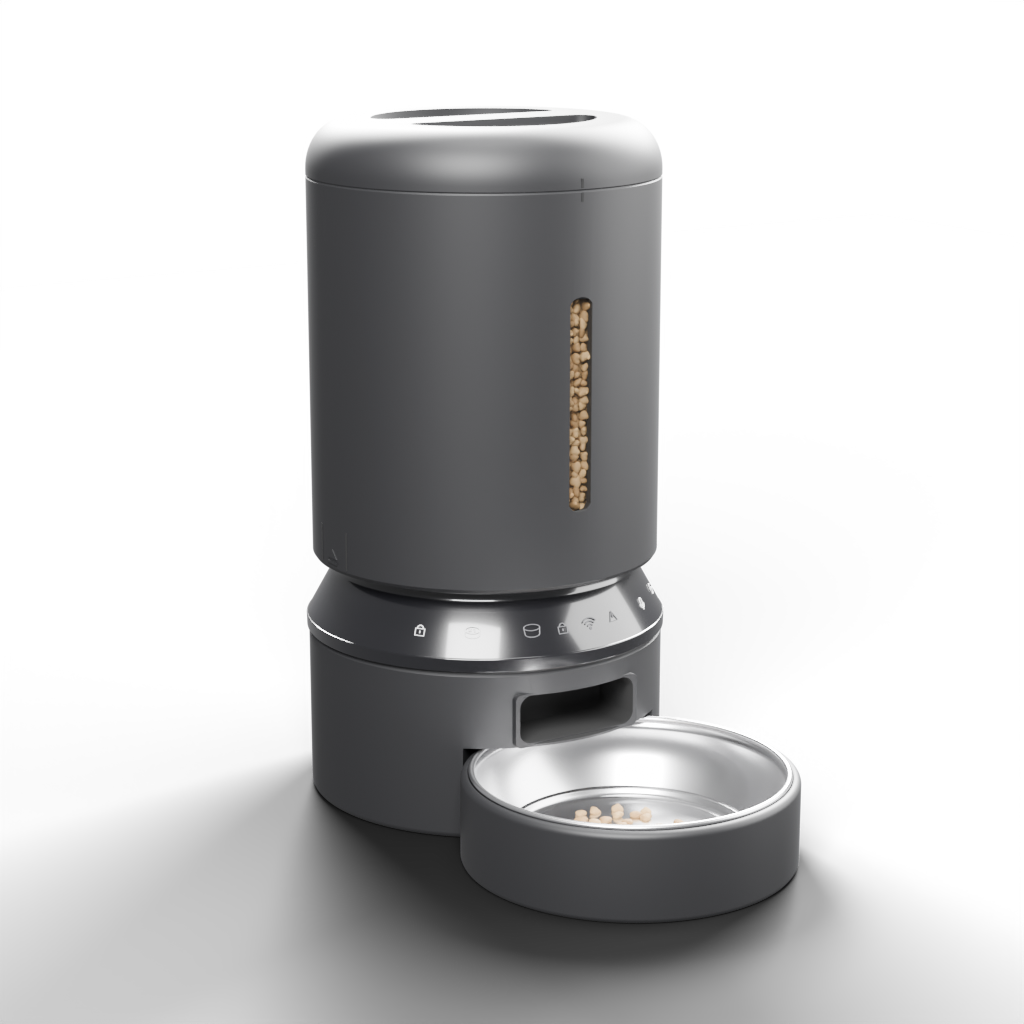
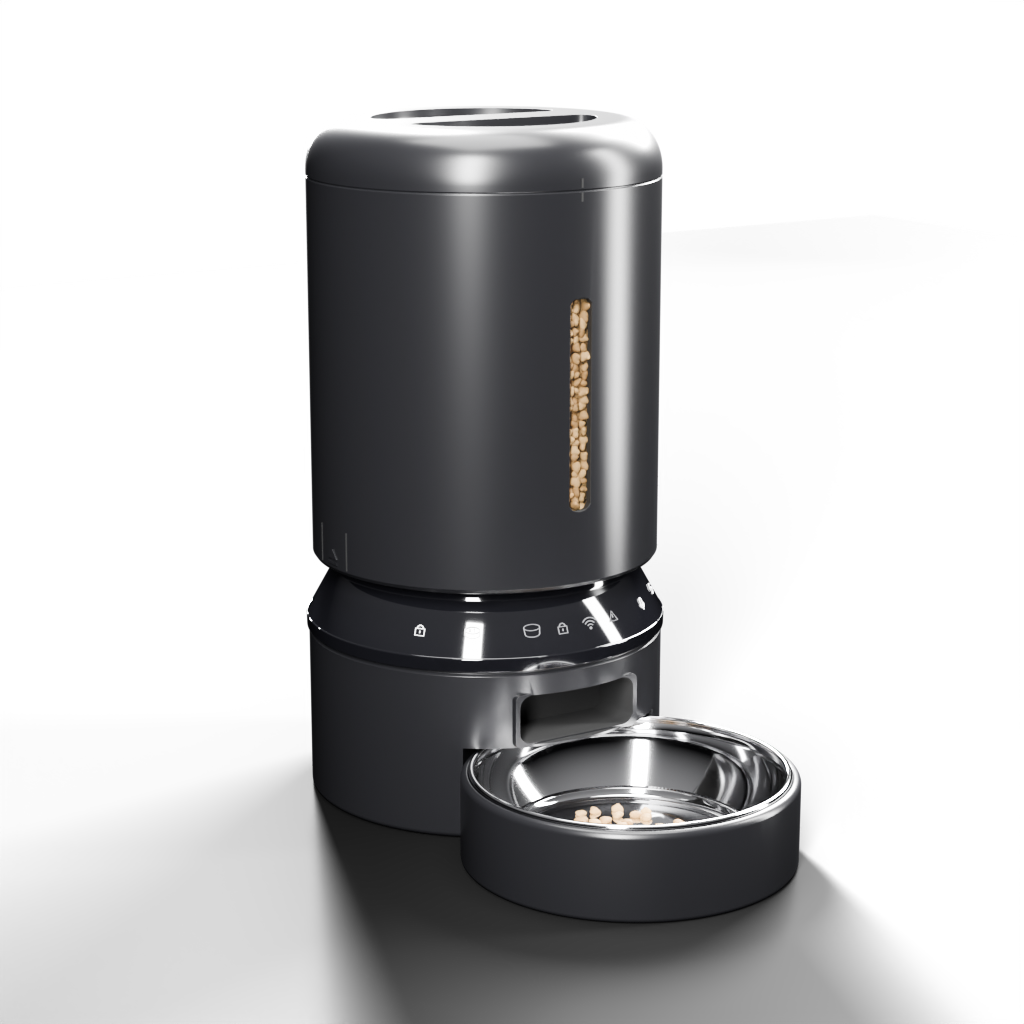
Render the feeder in a showroom look matched to the owner's photographs
Near-black satin body, gloss-black ring and mirror-polished bowl, applied
as render-time finishes; tall strip softboxes over a world dark except
overhead, so the gloss has something to reflect; and AgX's Medium High
Contrast look. Cameras are unchanged, so the hotspot JSON is too.

diff --git a/assets/model/render.py b/assets/model/render.py
@@ -53,6 +53,17 @@ UNLIT_ICON = "PL_Icon__Icon_Bowl"
 WINDOW_BOTTOM = 0.186
 WINDOW_TOP = 0.303
 
+# Surface finishes matched to owner photographs, applied at render time so the
+# model's materials stay as modeled. The body is near-black satin plastic with
+# a soft sheen (the model's grey reads as mid grey once lit), the ring is gloss
+# black that mirrors the room, and the bowl is mirror-polished steel.
+FINISHES = {
+    "PL_DarkGreyPlastic": {"Base Color": (0.012, 0.013, 0.014, 1.0), "Roughness": 0.3},
+    "PL_MatteBlack": {"Base Color": (0.008, 0.008, 0.009, 1.0), "Roughness": 0.27},
+    "PL_GlossBlack": {"Roughness": 0.06, "Coat Roughness": 0.02},
+    "PL_Steel": {"Roughness": 0.05},
+}
+
 
 @dataclass(frozen=True)
 class Camera:
@@ -282,6 +293,11 @@ def truthful():
     # through the window above partial fills and with the lid off.
     bpy.data.objects["HopperFill"].data.materials.append(bpy.data.materials["PL_Kibble"])
 
+    for material, finish in FINISHES.items():
+        inputs = next(n for n in bpy.data.materials[material].node_tree.nodes if n.type == "BSDF_PRINCIPLED").inputs
+        for socket, value in finish.items():
+            inputs[socket].default_value = value
+
 
 def aim(obj, target):
     obj.rotation_euler = (target - obj.location).to_track_quat("-Z", "Y").to_euler()
@@ -306,23 +322,27 @@ def stage(camera, look):
     scene.collection.objects.link(cam)
     scene.camera = cam
 
-    # Soft studio light, laid out for the card's front-left camera and turned
-    # with each view so every side gets the same look: a large key from the
-    # camera's side, a fill opposite, a rim from behind to separate the dark
-    # body from any background, and a top light. Views from below mirror it.
+    # Showroom light, laid out for the card's front-left camera and turned
+    # with each view so every side gets the same look. A black product is
+    # shaped by what it reflects, so the key, fill and rim are tall strip
+    # softboxes: each lays a clean vertical highlight down the cylinder, with
+    # dark body between them. A wide top box lights the lid and the bowl.
+    # Views from below mirror the rig. Sizes are (width, height) in meters.
     turn = math.radians(camera.azimuth - CAMERAS["card"].azimuth)
     centre = Vector((0.0, 0.0, 0.15))
     rig = [
-        ("Key", 260.0, 1.2, (-1.2, -1.4, 1.6)),
-        ("Fill", 90.0, 1.6, (1.5, -0.8, 0.8)),
-        ("Rim", 180.0, 0.8, (0.4, 1.4, 1.2)),
-        ("Top", 60.0, 1.0, (0.0, 0.0, 2.0)),
+        ("Key", 300.0, (0.35, 1.8), (-1.2, -1.4, 1.2)),
+        ("Fill", 110.0, (0.25, 1.8), (1.5, -0.8, 0.6)),
+        ("Rim", 260.0, (0.2, 1.6), (0.5, 1.4, 1.0)),
+        ("Top", 90.0, (1.2, 1.2), (0.0, 0.0, 2.0)),
     ]
-    rig += [(f"Rim{i}", *extra) for i, extra in enumerate(look.extra, start=2)]
-    for name, energy, size, (x, y, z) in rig:
+    rig += [(f"Rim{i}", energy, (size, size), location) for i, (energy, size, location) in enumerate(look.extra, start=2)]
+    for name, energy, (width, height), (x, y, z) in rig:
         light_data = bpy.data.lights.new(name, "AREA")
         light_data.energy = energy * look.energy.get(name, 1.0)
-        light_data.size = size
+        light_data.shape = "RECTANGLE"
+        light_data.size = width
+        light_data.size_y = height
         light = bpy.data.objects.new(name, light_data)
         light.location = (
             x * math.cos(turn) + y * math.sin(turn),
@@ -342,10 +362,27 @@ def stage(camera, look):
         catcher.visible_diffuse = False
         catcher.visible_glossy = False
 
+    # A studio sweep the camera never sees (the film is transparent) but every
+    # gloss surface reflects: dark all round, bright only overhead. A flat
+    # grey world gives the ring and bowl nothing to mirror and greys them out.
     world = bpy.data.worlds.new("RenderWorld")
     world.use_nodes = True
-    world.node_tree.nodes["Background"].inputs["Color"].default_value = (0.8, 0.8, 0.82, 1.0)
-    world.node_tree.nodes["Background"].inputs["Strength"].default_value = 0.35
+    nodes, links = world.node_tree.nodes, world.node_tree.links
+    background = next(n for n in nodes if n.type == "BACKGROUND")
+    coords = nodes.new("ShaderNodeTexCoord")
+    split = nodes.new("ShaderNodeSeparateXYZ")
+    ramp = nodes.new("ShaderNodeValToRGB")
+    ramp.color_ramp.elements[0].position = 0.6
+    ramp.color_ramp.elements[0].color = (0.015, 0.015, 0.017, 1.0)
+    ramp.color_ramp.elements[1].position = 0.97
+    ramp.color_ramp.elements[1].color = (0.9, 0.9, 0.92, 1.0)
+    remap = nodes.new("ShaderNodeMapRange")
+    links.new(coords.outputs["Generated"], split.inputs[0])
+    links.new(split.outputs["Z"], remap.inputs["Value"])
+    remap.inputs["From Min"].default_value = -1.0
+    links.new(remap.outputs["Result"], ramp.inputs["Fac"])
+    links.new(ramp.outputs["Color"], background.inputs["Color"])
+    background.inputs["Strength"].default_value = 0.4
     scene.world = world
 
 
@@ -363,6 +400,9 @@ def configure(size, samples):
     scene.render.image_settings.color_mode = "RGBA"
     scene.render.image_settings.color_depth = "8"
     scene.view_settings.view_transform = "AgX"
+    # AgX's base look flattens a dark product to grey; this keeps the blacks
+    # deep and the highlights crisp without clipping the steel.
+    scene.view_settings.look = "AgX - Medium High Contrast"
 
     # Use a GPU when one exists; the render is identical in content either way.
     prefs = bpy.context.preferences.addons["cycles"].preferences

diff --git a/assets/model/RENDERS.md b/assets/model/RENDERS.md
@@ -9,7 +9,7 @@ The images the app, the web UI and the docs need from `plaf103.blend`, and the r
 - **Unbranded, always.** Keep the `Logo` and `PCB_ChipLabel` objects hidden; `render.py`'s `unbrand()` already does this. No vendor marks, no vendor app UI, no device identifiers, and nothing fictional printed on the hardware.
 - **Locked cameras within a set.** Every state of a view uses the same camera, framing and lights, so the app can swap images (food levels, lid open) without the feeder jumping. Name cameras per view in code, not per state.
 - **Truthful states.** Show only what the hardware does. The only recorded indicator color is the **red fault light**; the others are unknown, so render them **unlit** and let the UI draw light through [hotspots](#hotspots). Buttons don't move or glow.
-- **Color management:** AgX, Cycles, denoised, with the GPU when available. The look matches `renders/card.png`: soft studio key, fill and rim, matte charcoal body, chrome ring.
+- **Color management:** AgX with the Medium High Contrast look, Cycles, denoised, with the GPU when available. The look matches `renders/card.png` and the owner's photographs: tall strip softboxes for key, fill and rim over a world that is dark except overhead, so the near-black satin body carries clean vertical highlights, the ring reads as gloss black and the bowl as mirror-polished steel. Those finishes are applied in `render.py` (`FINISHES`), not saved in the model.
 
 ## Outputs
 
